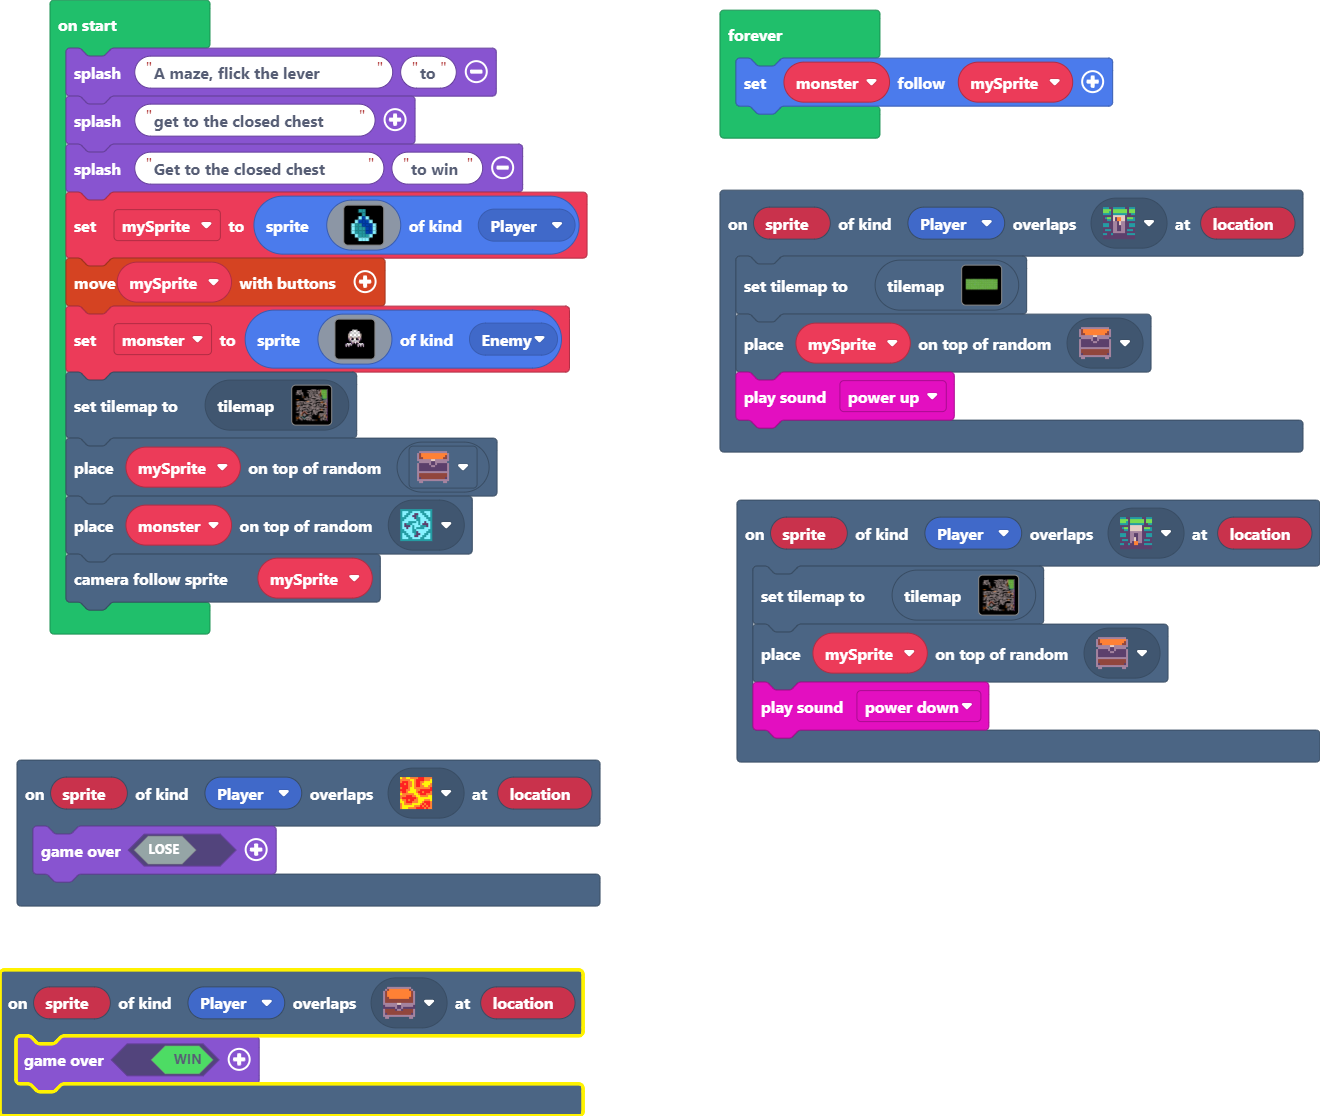
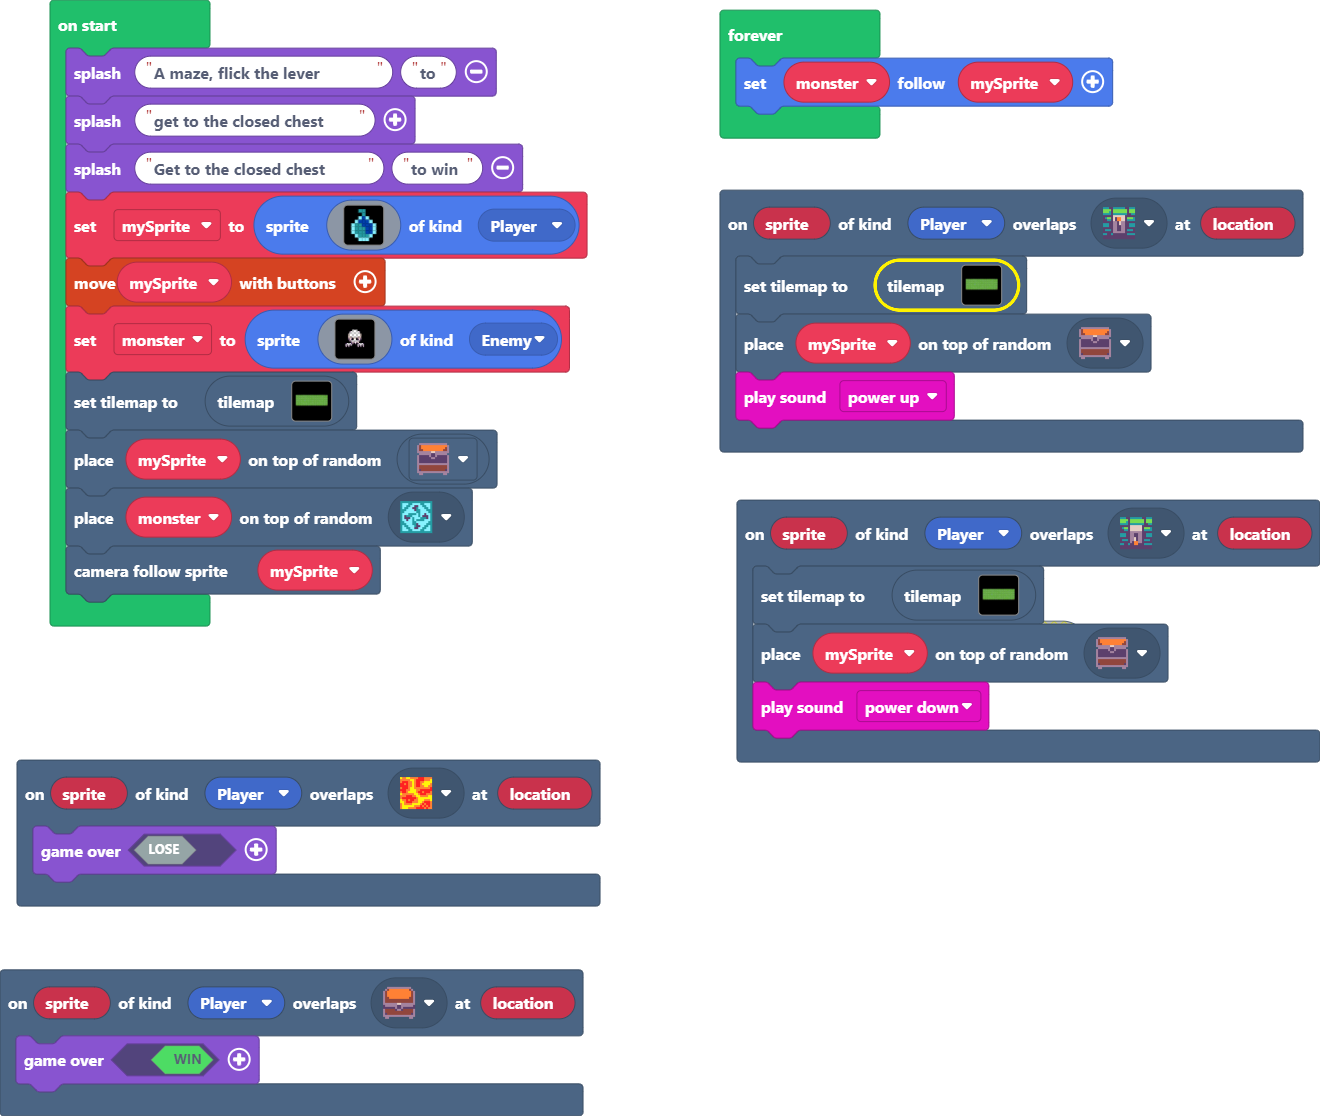
Update main.blocks, main.ts, tilemap.g.jres, tilemap.g.ts

diff --git a/tilemap.g.ts b/tilemap.g.ts
@@ -577,25 +577,6 @@ namespace myTiles {
 . . . . . . . . . . . . . . . . 
 . . . . . . . . . . . . . . . . 
 `, [myTiles.transparency16], TileScale.Sixteen);
-            case "level26":
-            case "level26":return tiles.createTilemap(hex`320010000201020202010202020202020102020202020102020102020202020202020202020202020202020202020103030207020202020101010201010202020102010101010102010202010102020201020203030202020102030303030303010202030302020202020202020201010101010201030301020202020202010101020102010101010103010101010202020201020202020302020101020101010102020301030302020102010101020202030303010101030301030303030303030301010101020203010202020202030303030303010103030101010301030303010303030303030103030301020201020101010102030303030201020202030303030301010301010101030203030103030303010102020202010303030103030102020303030303030301010101010101020101010103030303030303030102030101010201020303030301030301010103010103030101010101030302010202030202010202030202020203020101010303030201030103030303030103020102030303010303030301030203030201020203010101010203010101010303010601030301030303030301010102010203010303030101010102010102020302010101010201020301010303010303030301010103030101010101020203010103030303010303020201020303010203010202010202020102030301030301020203020203030302020202020202020303020303010303010202020101020201030201010201020202010102020102020101010102020202020203030102020303010101030301010303010103020102030202030301020102020202010303010202020202010303030101010202010203010203010102020301030201010202030101010102020102010101010101020301030303030301010103030101030303030303010303010303030102010102030303030301020202010202020202020202020202020201020202010202010102020203010303010301020202010202030303030202020102020101020202020502020202020203030103030301030301030301010101020202020103010101030303030102020202010202020102020204`, img`
-.2...2......2.....2..2....................2.......
-.222.22...2.22222.2..22...2.......2.......2.......
-......22222.2..2......222.2.22222.2222....2.......
-22.22222..2....2.222..2...222..2........2222...2..
-.........22..222.2...2......2...2..2.2222......2..
-......22.2222....2....22....2...2..2.........22222
-22.2222........2..222.2.....2..222.22..22222...2..
-...2.........222....2.2.....2..2....2....2.....2..
-.2222..2222..2.2..2.....222.2..2...2222.22....222.
-.2..22..2....222..22222...222...2....2...2..2..2..
-.2...2..2.....................2..2...22..2..2222..
-.22..2..2222........2....222..22..22..2......2.2..
-..2..2.....2...222..2..2..22...2..22...2222..2.22.
-222..2.....222..22......2..2...2.22......2...2....
-.........2...2..22....2..2.2...2.........2..22....
-.........2..22..2..2222....2.222....2....2........
-`, [myTiles.transparency16,sprites.castle.tileGrass2,sprites.castle.tileGrass1,sprites.castle.tileGrass3,sprites.dungeon.chestClosed,sprites.dungeon.chestOpen,sprites.dungeon.collectibleInsignia,sprites.dungeon.greenSwitchDown], TileScale.Sixteen);
             case "level30":
             case "level30":return tiles.createTilemap(hex`1000100000000000000000000000000000000000000000000000000000000000000000000000000000000000000000000000000000000000000000000000000000000000000000000000000000000000000000000000000000000000000000000000000000000000000000000000000000000000000000000000000000000000000000000000000000000000000000000000000000000000000000000000000000000000000000000000000000000000000000000000000000000000000000000000000000000000000000000000000000000000000000000000000000000000000000000000000000000000000000000000000000000000000000000000000000000000`, img`
 . . . . . . . . . . . . . . . . 
@@ -615,6 +596,120 @@ namespace myTiles {
 . . . . . . . . . . . . . . . . 
 . . . . . . . . . . . . . . . . 
 `, [myTiles.transparency16], TileScale.Sixteen);
+            case "level31":
+            case "level31":return tiles.createTilemap(hex`1000100000000000000000000000000000000000000000000000000000000000000000000000000000000000000000000000000000000000000000000000000000000000000000000000000000000000000000000000000000000000000000000000000000000000000000000000000000000000000000000000000000000000000000000000000000000000000000000000000000000000000000000000000000000000000000000000000000000000000000000000000000000000000000000000000000000000000000000000000000000000000000000000000000000000000000000000000000000000000000000000000000000000000000000000000000000000`, img`
+. . . . . . . . . . . . . . . . 
+. . . . . . . . . . . . . . . . 
+. . . . . . . . . . . . . . . . 
+. . . . . . . . . . . . . . . . 
+. . . . . . . . . . . . . . . . 
+. . . . . . . . . . . . . . . . 
+. . . . . . . . . . . . . . . . 
+. . . . . . . . . . . . . . . . 
+. . . . . . . . . . . . . . . . 
+. . . . . . . . . . . . . . . . 
+. . . . . . . . . . . . . . . . 
+. . . . . . . . . . . . . . . . 
+. . . . . . . . . . . . . . . . 
+. . . . . . . . . . . . . . . . 
+. . . . . . . . . . . . . . . . 
+. . . . . . . . . . . . . . . . 
+`, [myTiles.transparency16], TileScale.Sixteen);
+            case "level32":
+            case "level32":return tiles.createTilemap(hex`1000100000000000000000000000000000000000000000000000000000000000000000000000000000000000000000000000000000000000000000000000000000000000000000000000000000000000000000000000000000000000000000000000000000000000000000000000000000000000000000000000000000000000000000000000000000000000000000000000000000000000000000000000000000000000000000000000000000000000000000000000000000000000000000000000000000000000000000000000000000000000000000000000000000000000000000000000000000000000000000000000000000000000000000000000000000000000`, img`
+. . . . . . . . . . . . . . . . 
+. . . . . . . . . . . . . . . . 
+. . . . . . . . . . . . . . . . 
+. . . . . . . . . . . . . . . . 
+. . . . . . . . . . . . . . . . 
+. . . . . . . . . . . . . . . . 
+. . . . . . . . . . . . . . . . 
+. . . . . . . . . . . . . . . . 
+. . . . . . . . . . . . . . . . 
+. . . . . . . . . . . . . . . . 
+. . . . . . . . . . . . . . . . 
+. . . . . . . . . . . . . . . . 
+. . . . . . . . . . . . . . . . 
+. . . . . . . . . . . . . . . . 
+. . . . . . . . . . . . . . . . 
+. . . . . . . . . . . . . . . . 
+`, [myTiles.transparency16], TileScale.Sixteen);
+            case "level33":
+            case "level33":return tiles.createTilemap(hex`1000100000000000000000000000000000000000000000000000000000000000000000000000000000000000000000000000000000000000000000000000000000000000000000000000000000000000000000000000000000000000000000000000000000000000000000000000000000000000000000000000000000000000000000000000000000000000000000000000000000000000000000000000000000000000000000000000000000000000000000000000000000000000000000000000000000000000000000000000000000000000000000000000000000000000000000000000000000000000000000000000000000000000000000000000000000000000`, img`
+. . . . . . . . . . . . . . . . 
+. . . . . . . . . . . . . . . . 
+. . . . . . . . . . . . . . . . 
+. . . . . . . . . . . . . . . . 
+. . . . . . . . . . . . . . . . 
+. . . . . . . . . . . . . . . . 
+. . . . . . . . . . . . . . . . 
+. . . . . . . . . . . . . . . . 
+. . . . . . . . . . . . . . . . 
+. . . . . . . . . . . . . . . . 
+. . . . . . . . . . . . . . . . 
+. . . . . . . . . . . . . . . . 
+. . . . . . . . . . . . . . . . 
+. . . . . . . . . . . . . . . . 
+. . . . . . . . . . . . . . . . 
+. . . . . . . . . . . . . . . . 
+`, [myTiles.transparency16], TileScale.Sixteen);
+            case "level34":
+            case "level34":return tiles.createTilemap(hex`1000100000000000000000000000000000000000000000000000000000000000000000000000000000000000000000000000000000000000000000000000000000000000000000000000000000000000000000000000000000000000000000000000000000000000000000000000000000000000000000000000000000000000000000000000000000000000000000000000000000000000000000000000000000000000000000000000000000000000000000000000000000000000000000000000000000000000000000000000000000000000000000000000000000000000000000000000000000000000000000000000000000000000000000000000000000000000`, img`
+. . . . . . . . . . . . . . . . 
+. . . . . . . . . . . . . . . . 
+. . . . . . . . . . . . . . . . 
+. . . . . . . . . . . . . . . . 
+. . . . . . . . . . . . . . . . 
+. . . . . . . . . . . . . . . . 
+. . . . . . . . . . . . . . . . 
+. . . . . . . . . . . . . . . . 
+. . . . . . . . . . . . . . . . 
+. . . . . . . . . . . . . . . . 
+. . . . . . . . . . . . . . . . 
+. . . . . . . . . . . . . . . . 
+. . . . . . . . . . . . . . . . 
+. . . . . . . . . . . . . . . . 
+. . . . . . . . . . . . . . . . 
+. . . . . . . . . . . . . . . . 
+`, [myTiles.transparency16], TileScale.Sixteen);
+            case "level35":
+            case "level35":return tiles.createTilemap(hex`1000100000000000000000000000000000000000000000000000000000000000000000000000000000000000000000000000000000000000000000000000000000000000000000000000000000000000000000000000000000000000000000000000000000000000000000000000000000000000000000000000000000000000000000000000000000000000000000000000000000000000000000000000000000000000000000000000000000000000000000000000000000000000000000000000000000000000000000000000000000000000000000000000000000000000000000000000000000000000000000000000000000000000000000000000000000000000`, img`
+. . . . . . . . . . . . . . . . 
+. . . . . . . . . . . . . . . . 
+. . . . . . . . . . . . . . . . 
+. . . . . . . . . . . . . . . . 
+. . . . . . . . . . . . . . . . 
+. . . . . . . . . . . . . . . . 
+. . . . . . . . . . . . . . . . 
+. . . . . . . . . . . . . . . . 
+. . . . . . . . . . . . . . . . 
+. . . . . . . . . . . . . . . . 
+. . . . . . . . . . . . . . . . 
+. . . . . . . . . . . . . . . . 
+. . . . . . . . . . . . . . . . 
+. . . . . . . . . . . . . . . . 
+. . . . . . . . . . . . . . . . 
+. . . . . . . . . . . . . . . . 
+`, [myTiles.transparency16], TileScale.Sixteen);
+            case "level26":
+            case "level26":return tiles.createTilemap(hex`320010000201020202010202020202020102020202020102020102020202020202020202020202020202020202020103030207020202020101010201010202020102010101010102010202010102020201020203030202020102030303030303010202030302020202020202020201010101010201030301020202020202010101020102010101010103010101010202020201020202020302020101020101010102020301030302020102010101020202030303010101030301030303030303030301010101020203010202020202030303030303010103030101010301030303010303030303030103030301020201020101010102030303030201020202030303030301010301010101030203030103030303010102020202010303030103030102020303030303030301010101010101020101010103030303030303030102030101010201020303030301030301010103010103030101010101030302010202030202010202030202020203020101010303030201030103030303030103020102030303010303030301030203030201020203010101010203010101010303010601030301030303030301010102010203010303030101010102010102020302010101010201020301010303010303030301010103030101010101020203010103030303010303020201020303010203010202010202020102030301030301020203020203030302020202020202020303020303010303010202020101020201030201010201020202010102020102020101010102020202020203030102020303010101030301010303010103020102030202030301020102020202010303010202020202010303030101010202010203010203010102020301030201010202030101010102020102010101010101020301030303030301010103030101030303030303010303010303030102010102030303030301020202010202020202020202020202020201020202010202010102020203010303010301020202010202030303030202020102020101020202020502020202020203030103030301030301030301010101020202020103010101030303030102020202010202020102020204`, img`
+.2...2......2.....2..2....................2.......
+.222.22...2.22222.2..22...2.......2.......2.......
+......22222.2..2......222.2.22222.2222....2.......
+22.22222..2....2.222..2...222..2........2222...2..
+.........22..222.2...2......2...2..2.2222......2..
+......22.2222....2....22....2...2..2.........22222
+22.2222........2..222.2.....2..222.22..22222...2..
+...2.........222....2.2.....2..2....2....2.....2..
+.2222..2222..2.2..2.....222.2..2...2222.22....2222
+.2..22..2....222..22222...222...2....2...2..2..2..
+.2...2..2.....................2..2...22..2..2222..
+.22..2..2222........2....222..22..22..2......2.2..
+..2..2.....2...222..2..2..22...2..22...2222..2.222
+222..2.....222..22......2..2...2.22......2...2....
+.........2...2..22....2..2.2...2.........2..22....
+.........2..22..2..2222....2.222....2....2...2....
+`, [myTiles.transparency16,sprites.castle.tileGrass2,sprites.castle.tileGrass1,sprites.castle.tileGrass3,sprites.dungeon.chestClosed,sprites.dungeon.chestOpen,sprites.dungeon.collectibleInsignia,sprites.dungeon.greenSwitchUp], TileScale.Sixteen);
         }
         return null;
     })

diff --git a/main.ts b/main.ts
@@ -4,7 +4,7 @@ scene.onOverlapTile(SpriteKind.Player, sprites.dungeon.greenSwitchUp, function (
     music.powerUp.play()
 })
 scene.onOverlapTile(SpriteKind.Player, sprites.dungeon.greenSwitchDown, function (sprite, location) {
-    tiles.setCurrentTilemap(tilemap`level1`)
+    tiles.setCurrentTilemap(tilemap`level26`)
     tiles.placeOnRandomTile(mySprite, sprites.dungeon.chestOpen)
     music.powerDown.play()
 })
@@ -56,7 +56,7 @@ let monster = sprites.create(img`
     ........................
     ........................
     `, SpriteKind.Enemy)
-tiles.setCurrentTilemap(tilemap`level1`)
+tiles.setCurrentTilemap(tilemap`level26`)
 tiles.placeOnRandomTile(mySprite, sprites.dungeon.chestOpen)
 tiles.placeOnRandomTile(monster, sprites.dungeon.collectibleInsignia)
 scene.cameraFollowSprite(mySprite)
